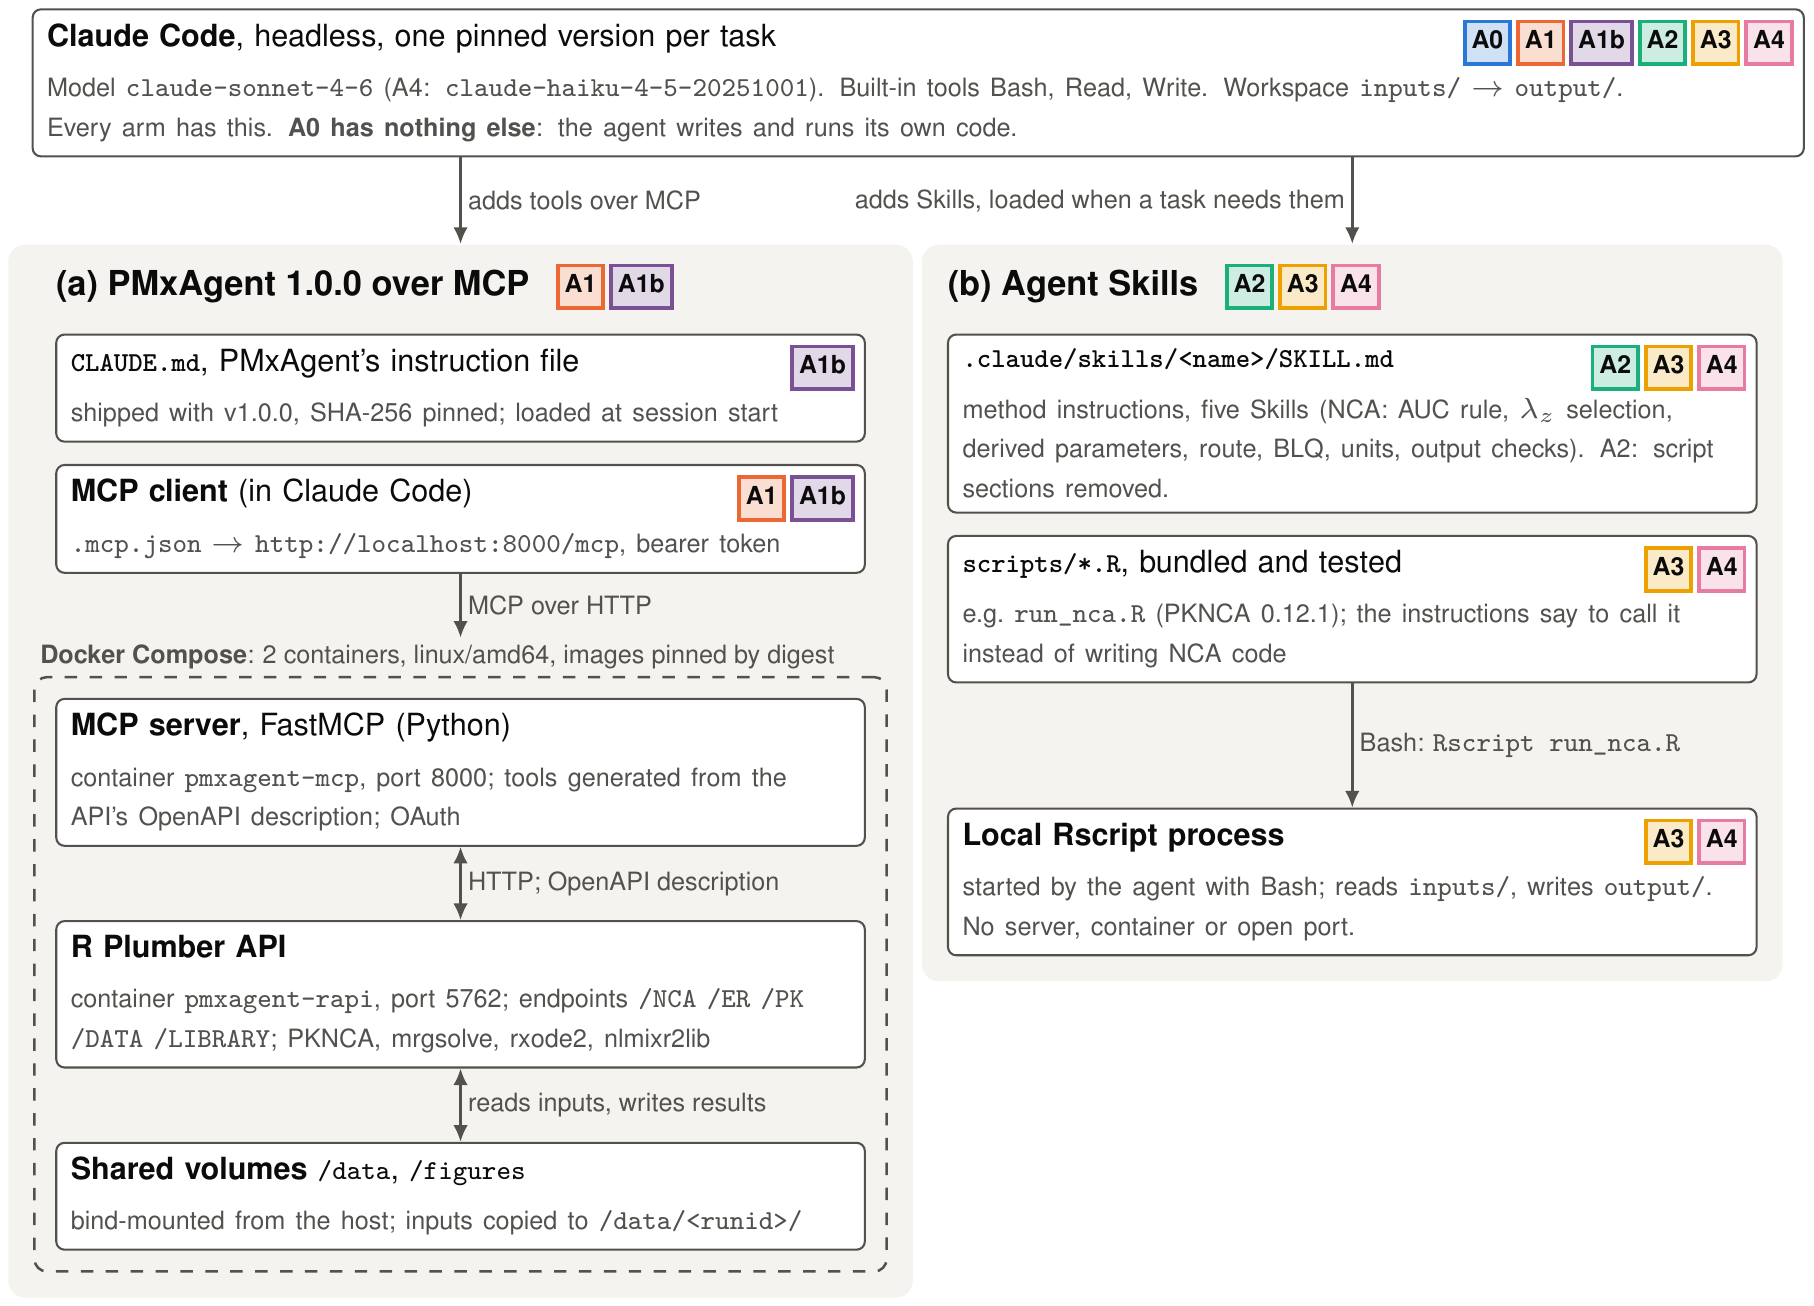
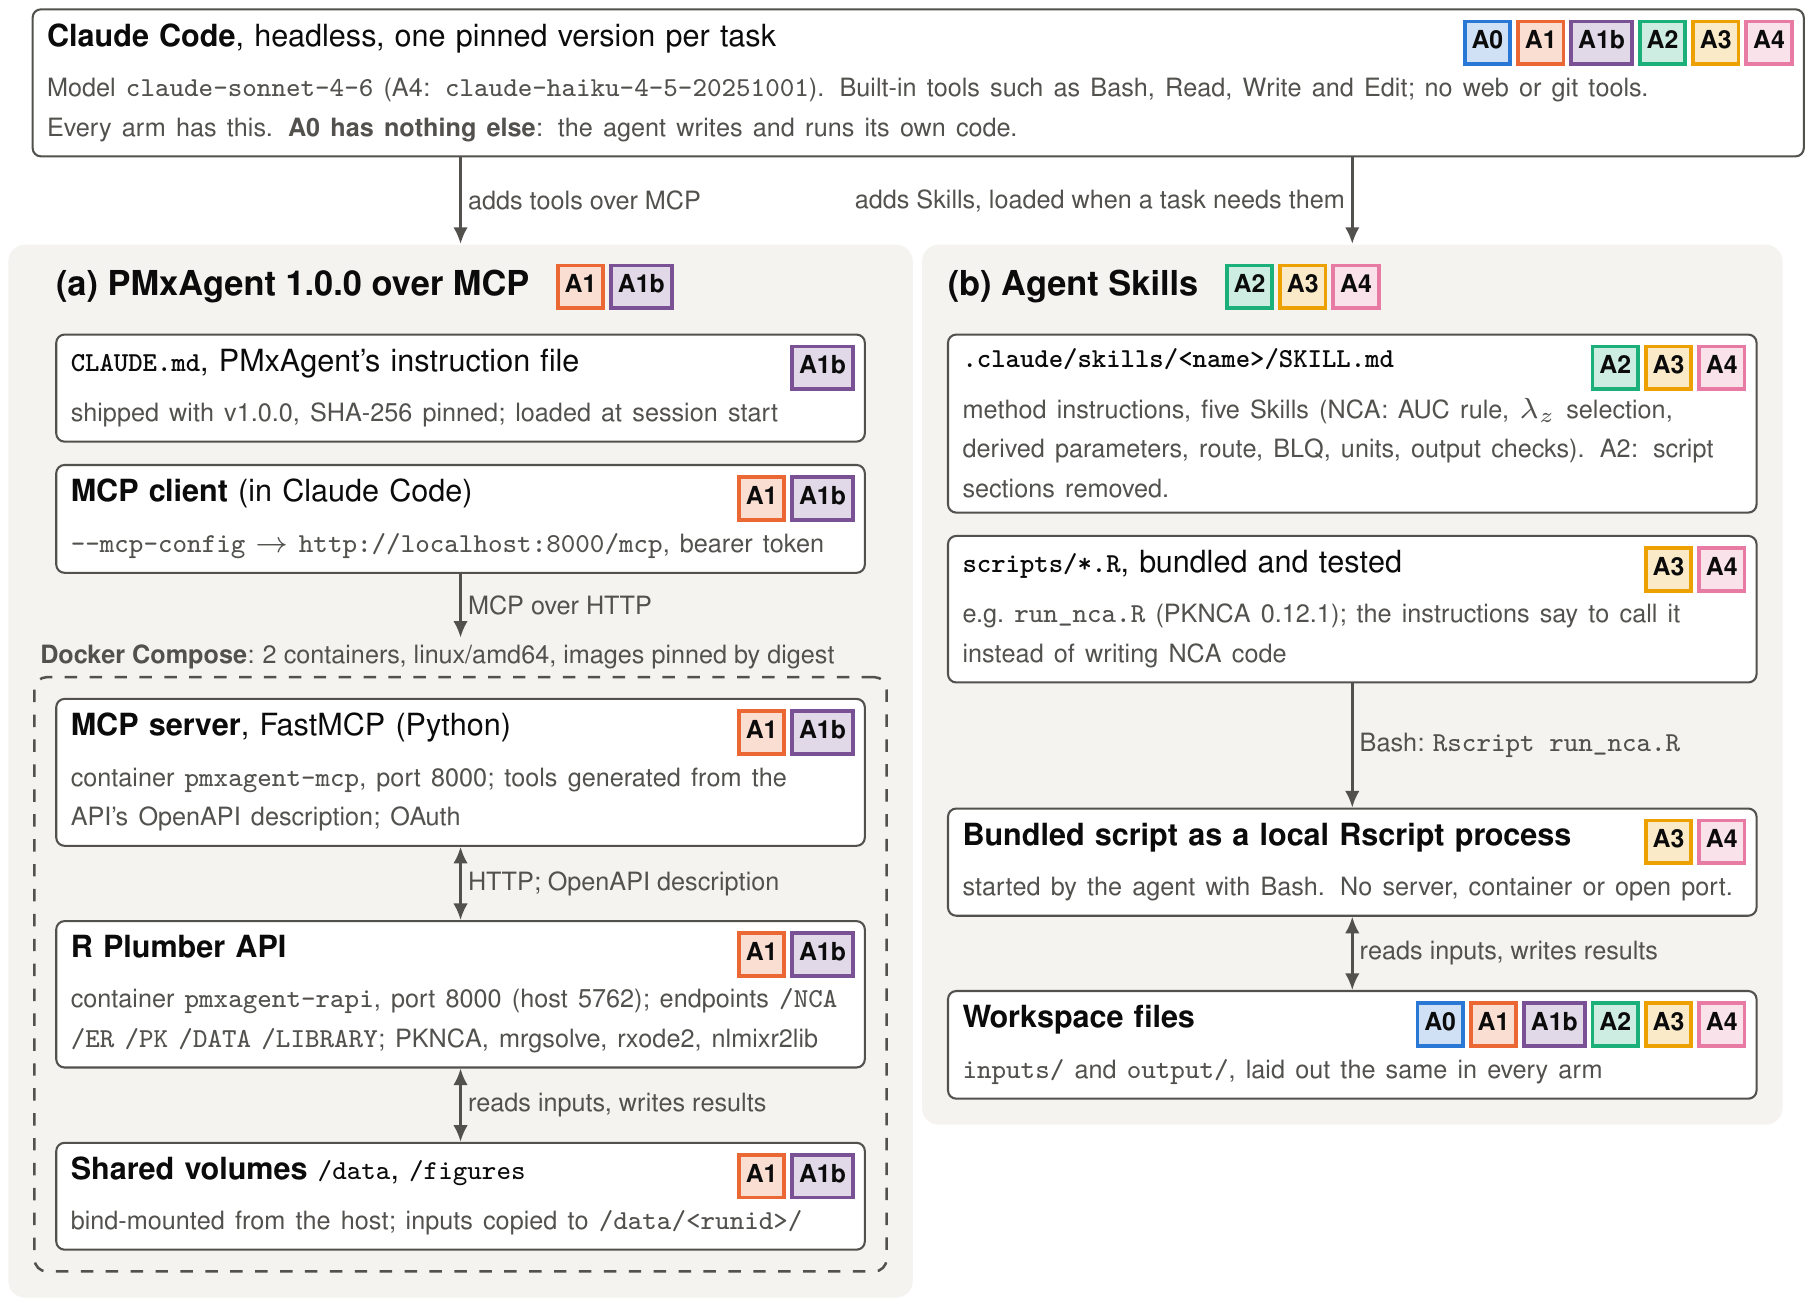
S10: Fig 1 review fixes (#12)
Spec review: arm chips on every PMxAgent component; workspace box in panel (b); Claude Code tools described as
"such as Bash, Read, Write and Edit; no web or git tools" (harness allows more than three); MCP client wired by
--mcp-config, not a workspace .mcp.json; R Plumber API port 8000 (host 5762), the hop the MCP server uses; source
comment names only the paper and infra files the issue allows; Rscript box titled as the bundled script.
Standards review: Fig 1 build added to the paper pipeline (CLAUDE.md, SPEC.md); test accepts figure*; \headchips and
\smallfont macros replace repeated node/font code; arrow style both -> twoway.

diff --git a/paper/figures/fig_arch.tex b/paper/figures/fig_arch.tex
@@ -3,7 +3,7 @@
 % Arm colours are those of scoring/figures.py (COLOR); scoring/tests/test_fig_arch.py keeps them in step. Every arm
 % chip carries its name, so colour is never the only cue and the figure reads in greyscale.
 % PMxAgent components are named only from its paper and its infra files (docker-compose*.yml, docker/Dockerfile.*,
-% server.py header, README), never from its endpoint code.
+% README), never from its endpoint code. How the arms were wired (MCP config, tools) follows harness/run_arm.py.
 \documentclass[border=2pt]{standalone}
 \usepackage[T1]{fontenc}
 \usepackage[scaled=0.92]{helvet}
@@ -23,20 +23,24 @@
 \definecolor{ink2}{HTML}{52514e}
 \definecolor{panel}{HTML}{f4f3f0}
 
+\newcommand{\smallfont}{\fontsize{6.6}{8}\selectfont}   % detail text, paths, arrow labels
+\newcommand{\chipfont}{\fontsize{6.5}{7}\selectfont}
 \newcommand{\armchip}[1]{{\setlength{\fboxsep}{1.2pt}\setlength{\fboxrule}{0.9pt}%
   \fcolorbox{arm#1}{arm#1!22}{\textcolor{ink}{\bfseries\strut #1}}}}
-\newcommand{\chips}[2]{\node[anchor=north east, inner sep=0pt, font=\fontsize{6.5}{7}\selectfont]
+\newcommand{\chips}[2]{\node[anchor=north east, inner sep=0pt, font=\chipfont]       % arm chips in a box's corner
   at ($(#1.north east)+(-2.5pt,-2.5pt)$) {#2};}
-\newcommand{\detail}[1]{{\fontsize{6.6}{8}\selectfont\color{ink2}#1}}
-\newcommand{\code}[1]{\texttt{\fontsize{6.6}{8}\selectfont #1}}
+\newcommand{\headchips}[2]{\node[anchor=west, inner sep=0pt, font=\chipfont]         % arm chips after a panel head
+  at ($(#1.east)+(6pt,0)$) {#2};}
+\newcommand{\detail}[1]{{\smallfont\color{ink2}#1}}
+\newcommand{\code}[1]{\texttt{\smallfont #1}}
 
 \tikzset{
   box/.style={draw=ink2, line width=0.5pt, rounded corners=2pt, fill=white, align=left, inner sep=3.5pt,
               text width=#1, font=\fontsize{8}{9.6}\selectfont, text=ink},
   box/.default=6.6cm,
   flow/.style={-{Latex[length=4pt,width=3.5pt]}, line width=0.6pt, draw=ink2},
-  both/.style={{Latex[length=4pt,width=3.5pt]}-{Latex[length=4pt,width=3.5pt]}, line width=0.6pt, draw=ink2},
-  lab/.style={font=\fontsize{6.6}{8}\selectfont, text=ink2, align=left, inner sep=1.5pt},
+  twoway/.style={{Latex[length=4pt,width=3.5pt]}-{Latex[length=4pt,width=3.5pt]}, line width=0.6pt, draw=ink2},
+  lab/.style={font=\smallfont, text=ink2, align=left, inner sep=1.5pt},
   head/.style={font=\fontsize{9}{11}\selectfont\bfseries, text=ink, anchor=north west, inner sep=0pt},
   dock/.style={draw=ink2, dashed, line width=0.6pt, rounded corners=3pt, inner sep=5pt},
 }
@@ -48,15 +52,14 @@
 % ---- every arm: plain Claude Code ---------------------------------------------------------------------------------
 \node[box=14.75cm, anchor=north west] (cc) at (0,0) {%
   \textbf{Claude Code}, headless, one pinned version per task\\[2.5pt]
-  \detail{Model \code{claude-sonnet-4-6} (A4: \code{claude-haiku-4-5-20251001}). Built-in tools Bash, Read, Write.
-  Workspace \code{inputs/} $\rightarrow$ \code{output/}.}\\
+  \detail{Model \code{claude-sonnet-4-6} (A4: \code{claude-haiku-4-5-20251001}). Built-in tools such as Bash, Read,
+  Write and Edit; no web or git tools.}\\
   \detail{Every arm has this. \textbf{A0 has nothing else}: the agent writes and runs its own code.}};
 \chips{cc}{\armchip{A0}\,\armchip{A1}\,\armchip{A1b}\,\armchip{A2}\,\armchip{A3}\,\armchip{A4}}
 
 % ---- (a) PMxAgent: instructions (A1b only), MCP client, then the Docker stack ------------------------------------
 \node[head] (ha) at ($(cc.south west)+(0.2,-0.95)$) {(a) PMxAgent 1.0.0 over MCP};
-\node[anchor=west, inner sep=0pt, font=\fontsize{6.5}{7}\selectfont] at ($(ha.east)+(6pt,0)$)
-  {\armchip{A1}\,\armchip{A1b}};
+\headchips{ha}{\armchip{A1}\,\armchip{A1b}}
 
 \node[box, anchor=north west] (cmd) at ($(ha.south west)+(0,-0.25)$) {%
   \textbf{\code{CLAUDE.md}}, PMxAgent's instruction file\\[2.5pt]
@@ -65,21 +68,24 @@
 
 \node[box, anchor=north west] (mcpc) at ($(cmd.south west)+(0,-0.18)$) {%
   \textbf{MCP client} (in Claude Code)\\[2.5pt]
-  \detail{\code{.mcp.json} $\rightarrow$ \code{http://localhost:8000/mcp}, bearer token}};
+  \detail{\code{-{}-mcp-config} $\rightarrow$ \code{http://localhost:8000/mcp}, bearer token}};
 \chips{mcpc}{\armchip{A1}\,\armchip{A1b}}
 
 \node[box, anchor=north west] (srv) at ($(mcpc.south west)+(0,-1.05)$) {%
   \textbf{MCP server}, FastMCP (Python)\\[2.5pt]
   \detail{container \code{pmxagent-mcp}, port 8000; tools generated from the API's OpenAPI description; OAuth}};
+\chips{srv}{\armchip{A1}\,\armchip{A1b}}
 
 \node[box, anchor=north west] (rapi) at ($(srv.south west)+(0,-0.62)$) {%
   \textbf{R Plumber API}\\[2.5pt]
-  \detail{container \code{pmxagent-rapi}, port 5762; endpoints \code{/NCA /ER /PK /DATA /LIBRARY};
+  \detail{container \code{pmxagent-rapi}, port 8000 (host 5762); endpoints \code{/NCA /ER /PK /DATA /LIBRARY};
   PKNCA, mrgsolve, rxode2, nlmixr2lib}};
+\chips{rapi}{\armchip{A1}\,\armchip{A1b}}
 
 \node[box, anchor=north west] (vol) at ($(rapi.south west)+(0,-0.62)$) {%
   \textbf{Shared volumes} \code{/data}, \code{/figures}\\[2.5pt]
   \detail{bind-mounted from the host; inputs copied to \code{/data/<runid>/}}};
+\chips{vol}{\armchip{A1}\,\armchip{A1b}}
 
 \begin{scope}[on background layer]
   \node[dock, fit=(srv)(rapi)(vol)] (dock) {};
@@ -88,13 +94,12 @@
   {\textbf{Docker Compose}: 2 containers, linux/amd64, images pinned by digest};
 
 \draw[flow] (mcpc.south) -- (docklab.north -| mcpc.south) node[lab, midway, right] {MCP over HTTP};
-\draw[both] (srv.south) -- (rapi.north) node[lab, midway, right] {HTTP; OpenAPI description};
-\draw[both] (rapi.south) -- (vol.north) node[lab, midway, right] {reads inputs, writes results};
+\draw[twoway] (srv.south) -- (rapi.north) node[lab, midway, right] {HTTP; OpenAPI description};
+\draw[twoway] (rapi.south) -- (vol.north) node[lab, midway, right] {reads inputs, writes results};
 
-% ---- (b) Agent Skills: instructions, bundled scripts, a local process ---------------------------------------------
+% ---- (b) Agent Skills: instructions, bundled scripts, a local process, the workspace ------------------------------
 \node[head] (hb) at ($(cc.south west)+(7.75,-0.95)$) {(b) Agent Skills};
-\node[anchor=west, inner sep=0pt, font=\fontsize{6.5}{7}\selectfont] at ($(hb.east)+(6pt,0)$)
-  {\armchip{A2}\,\armchip{A3}\,\armchip{A4}};
+\headchips{hb}{\armchip{A2}\,\armchip{A3}\,\armchip{A4}}
 
 \node[box, anchor=north west] (skill) at ($(hb.south west)+(0,-0.25)$) {%
   \textbf{\code{.claude/skills/<name>/SKILL.md}}\\[2.5pt]
@@ -108,17 +113,22 @@
 \chips{scr}{\armchip{A3}\,\armchip{A4}}
 
 \node[box, anchor=north west] (rs) at ($(scr.south west)+(0,-1.05)$) {%
-  \textbf{Local Rscript process}\\[2.5pt]
-  \detail{started by the agent with Bash; reads \code{inputs/}, writes \code{output/}.
-  No server, container or open port.}};
+  \textbf{Bundled script as a local Rscript process}\\[2.5pt]
+  \detail{started by the agent with Bash. No server, container or open port.}};
 \chips{rs}{\armchip{A3}\,\armchip{A4}}
 
+\node[box, anchor=north west] (ws) at ($(rs.south west)+(0,-0.62)$) {%
+  \textbf{Workspace files}\\[2.5pt]
+  \detail{\code{inputs/} and \code{output/}, laid out the same in every arm}};
+\chips{ws}{\armchip{A0}\,\armchip{A1}\,\armchip{A1b}\,\armchip{A2}\,\armchip{A3}\,\armchip{A4}}
+
 \draw[flow] (scr.south) -- (rs.north) node[lab, midway, right] {Bash: \code{Rscript run\_nca.R}};
+\draw[twoway] (rs.south) -- (ws.north) node[lab, midway, right] {reads inputs, writes results};
 
 % ---- panels and the step down from Claude Code -------------------------------------------------------------------
 \begin{pgfonlayer}{panels}
   \node[fill=panel, rounded corners=4pt, inner sep=6pt, fit=(ha)(cmd)(mcpc)(docklab)(dock)] (pa) {};
-  \node[fill=panel, rounded corners=4pt, inner sep=6pt, fit=(hb)(skill)(scr)(rs)] (pb) {};
+  \node[fill=panel, rounded corners=4pt, inner sep=6pt, fit=(hb)(skill)(scr)(rs)(ws)] (pb) {};
 \end{pgfonlayer}
 \draw[flow] (cc.south -| pa.north) -- (pa.north) node[lab, midway, right] {adds tools over MCP};
 \draw[flow] (cc.south -| pb.north) -- (pb.north) node[lab, midway, left] {adds Skills, loaded when a task needs them};

diff --git a/scoring/tests/test_fig_arch.py b/scoring/tests/test_fig_arch.py
@@ -26,7 +26,7 @@ class ArchFigure(unittest.TestCase):
 
     def test_fig_arch_is_figure_1_and_is_cited_before_it_appears(self):
         tex = read("main.tex")
-        figs = re.findall(r"\\begin\{figure\}.*?\\end\{figure\}", tex, flags=re.S)
+        figs = re.findall(r"\\begin\{figure\*?\}.*?\\end\{figure\*?\}", tex, flags=re.S)
         self.assertIn(r"\includegraphics", figs[0])
         self.assertIn("figures/fig_arch.pdf", figs[0])
         self.assertIn(r"\label{fig:arch}", figs[0])

diff --git a/paper/SPEC.md b/paper/SPEC.md
@@ -125,7 +125,7 @@ Added 2026-11-17, before any T2 score was computed and before A1 T1 runs 4–10 
   version; `--allow-version-drift` overrides by hand and must be logged. Same pinned models and PMxAgent image digests.
 - **No hand-typed numbers.** Tables and number macros come from `paper/tables.py`; figures from `scoring/figures.py` (Fig 1: TikZ source `paper/figures/fig_arch.tex`, arm colours kept in step by `scoring/tests/test_fig_arch.py`);
   comparisons from `scoring/stats.py`. The manuscript only `\input`s them.
-- **Pipeline:** `score_all.py → summarize.py → stats.py → figures.py → paper/tables.py → latexmk`.
+- **Pipeline:** `score_all.py → summarize.py → stats.py → figures.py (+ `fig_arch.tex`, Fig 1) → paper/tables.py → latexmk`.
 - **Concurrency and exclusion** as for T1 (`logs/deviations.md` §2–3): at most 2 Claude Code sessions, `--until`
   top-up, stop on HTTP 429. Runner: A1 T1 top-up first, alone (`run_arm.py run A1 T1_nca 10 … --until`), then
   `harness/run_t2_t3_lanes.sh` (`T3B_OK=1` after S2).

diff --git a/CLAUDE.md b/CLAUDE.md
@@ -36,7 +36,7 @@ Goal: test how much of PMxAgent's architecture (Docker + R Plumber + FastMCP) is
 - Score a run: `python3 scoring/score_nca.py <individual.csv>` · score all: `python3 scoring/score_all.py [--arm A3] [--task T1_nca]`
 - Summarize + audit: `python3 scoring/summarize.py` · `python3 scoring/audit_isolation.py`
 - Build arm repos: `python3 harness/run_arm.py setup <arm>` · probe isolation: `python3 harness/run_arm.py preflight <arm> claude-sonnet-4-6`
-- Paper pipeline: `python3 scoring/stats.py && python3 scoring/figures.py && python3 paper/tables.py && (cd paper && latexmk -pdf main.tex)`
+- Paper pipeline: `python3 scoring/stats.py && python3 scoring/figures.py && (cd paper/figures && latexmk -pdf fig_arch.tex) && python3 paper/tables.py && (cd paper && latexmk -pdf main.tex)`
 - Run an arm: `bash harness/run_arm.sh <A0|A1|A1b|A2|A3|A4> <task> <reps> claude-sonnet-4-6` (A1/A1b need `bash harness/pmxagent.sh up`)
 - Evidence bundle: `python3 harness/make_evidence.py`
 
